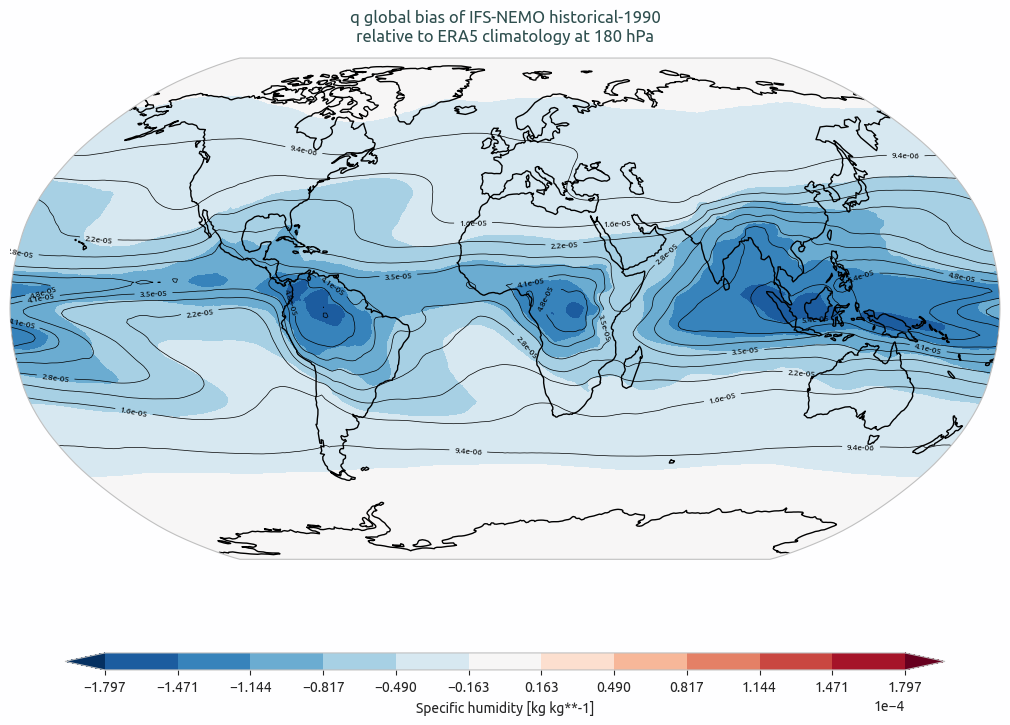
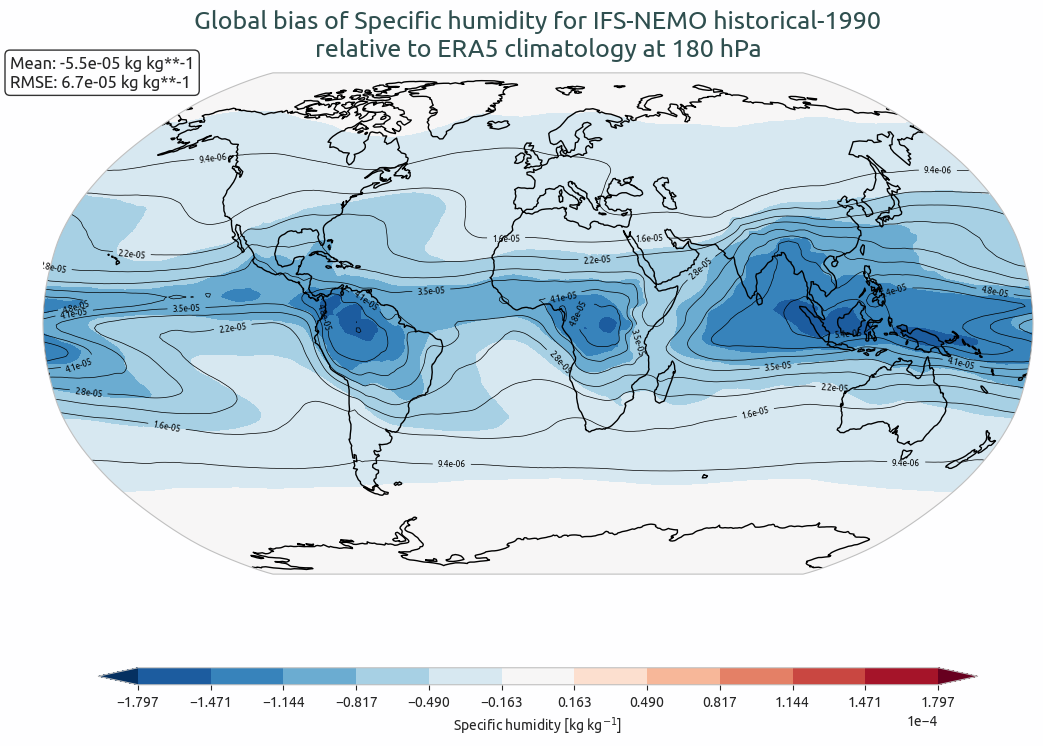
update docs

diff --git a/docs/sphinx/source/stateoftheart_diagnostics/global_biases.rst b/docs/sphinx/source/stateoftheart_diagnostics/global_biases.rst
@@ -20,7 +20,7 @@ GlobalBiases provides tools to plot:
 Classes
 -------
 
-There is one class for the analysis and one for the plotting:
+There are three classes in the diagnostic:
 
 * **GlobalBiases**: retrieves the data and prepares it for plotting (e.g., regridding, pressure level selection, unit conversion).  
   It handles the computation of mean climatologies, including seasonal climatologies if requested.  
@@ -28,6 +28,9 @@ There is one class for the analysis and one for the plotting:
 
 * **PlotGlobalBiases**: provides methods for plotting the global biases, seasonal biases, and vertical profiles.  
   It generates the plots based on the data prepared by the GlobalBiases class.
+
+* **StatGlobalBiases**: computes global statistics on the biases, such as mean bias and root mean square error (RMSE).
+It can compute area-weighted statistics if grid cell areas are provided.
 
 File structure
 --------------
@@ -81,13 +84,14 @@ The basic structure of the analysis is the following:
     )
 
     biases_ifs_nemo.retrieve(var='q')
-    biases_ifs_nemo.compute_climatology(seasonal=True)
+    biases_ifs_nemo.compute_climatology(seasonal=True, areas=True)
 
     biases_era5.retrieve(var='q')
-    biases_era5.compute_climatology(seasonal=True)
+    biases_era5.compute_climatology(seasonal=True, areas=True)
     
     pg = PlotGlobalBiases(loglevel='DEBUG')
-    pg.plot_bias(data=biases_ifs_nemo.climatology, data_ref=biases_era5.climatology, var='q', plev=18000)
+    pg.plot_bias(data=biases_ifs_nemo.climatology, data_ref=biases_era5.climatology, var='q', plev=18000, 
+                 area=biases_ifs_nemo.climatology['cell_area'], show_stats=True)
 
 .. note::
 
@@ -161,7 +165,8 @@ Here we describe only the specific settings for the global biases diagnostic.
                 short_name: "tnr"
                 long_name: "Top net radiation"
 
-* ``plot_params``: defines colorbar palette and limits and projection parameters for each variable.  
+* ``plot_params``: defines colorbar palette and limits and projection parameters for each variable.
+``show_stats`` enables the display of global bias statistics (mean bias and RMSE) on the global bias plot.
 The default parameters are used if not specified for a specific variable.
 Refer to `AQUA/aqua/core/util/projections.py <https://github.com/DestinE-Climate-DT/AQUA/blob/main/aqua/core/util/projections.py>`_ for available projections.
 
@@ -171,6 +176,7 @@ Refer to `AQUA/aqua/core/util/projections.py <https://github.com/DestinE-Climate
         default: 
             projection: 'robinson'
             projection_params: {}
+            show_stats: true
         2t:
             cmap: 'RdBu_r'
             vmin: -15
